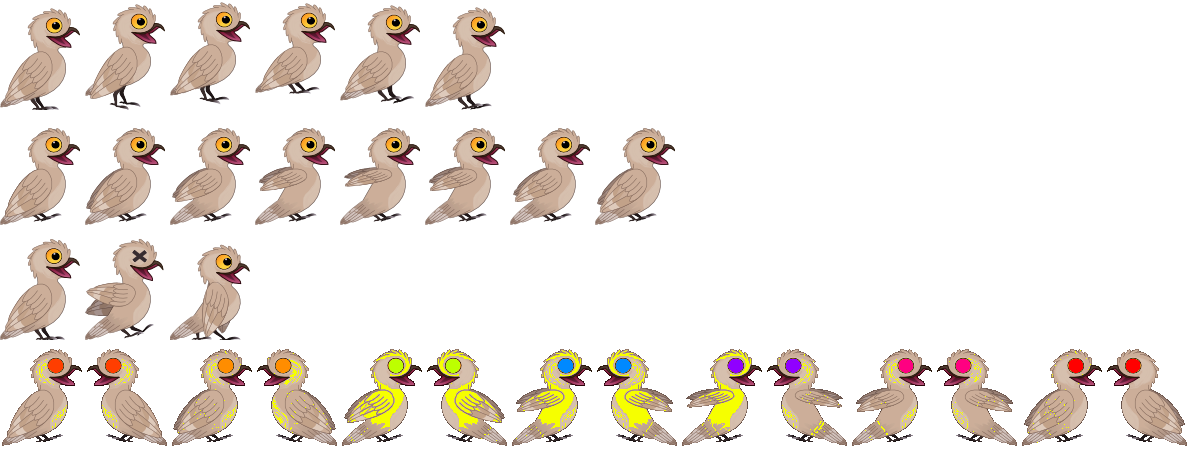
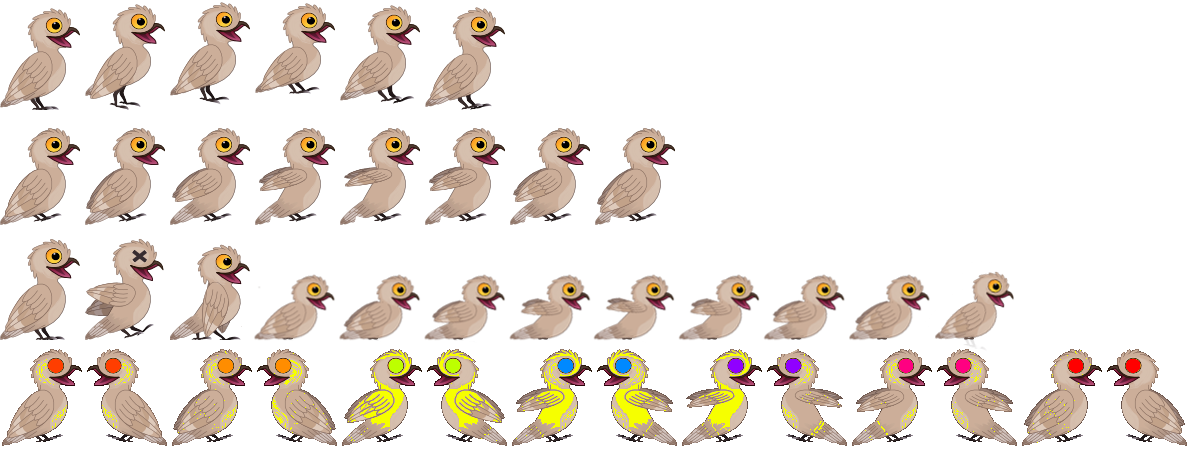
Animation crouch + crouch sur fleche du bas

Changed region(s): [[0.2176, 0.5911, 0.8706, 0.7778]]

diff --git a/SPW/Player.cpp b/SPW/Player.cpp
@@ -44,6 +44,23 @@ Player::Player(Scene &scene) :
     invincibleAnim->SetCycleCount(-1);
     invincibleAnim->SetCycleTime(0.2f);
 
+    // Animation "Crouching idle"
+    part = atlas->GetPart("Crouch_Idle");
+    AssertNew(part);
+    RE_TexAnim *chouchIdleAnim = new RE_TexAnim(
+            m_animator, "Crouch_Idle", part
+    );
+    chouchIdleAnim->SetCycleCount(0);
+
+    // Animation "Crouching running"
+    part = atlas->GetPart("Crouch_Running");
+    AssertNew(part);
+    RE_TexAnim *chouchRunningAnim = new RE_TexAnim(
+            m_animator, "Crouch_Running", part
+    );
+    chouchRunningAnim->SetCycleCount(-1);
+    chouchRunningAnim->SetCycleTime(0.15f);
+
     // Animation "Diving"
     part = atlas->GetPart("DiveLoading");
     AssertNew(part);
@@ -128,7 +145,7 @@ void Player::Update()
     if (controls.goDownDown && (m_state == State::FALLING)) m_dive = true;
 
     // Crouching
-    if(controls.crouchDown && (m_state == State::IDLE or m_state == State::FALLING or m_state == State::WALKING or m_state == State::RUNNING)) m_crouching = true;
+    if(controls.crouchDown && m_onGround && (m_state == State::IDLE or m_state == State::FALLING or m_state == State::WALKING or m_state == State::RUNNING)) m_crouching = true;
     else if(controls.crouchReleased &&  m_crouching) m_crouching = false;
 }
 
@@ -149,11 +166,6 @@ void Player::Render()
 
     rect.h = 1.375f * scale;
     rect.w = 1.0f * scale;
-    if(m_crouching)
-    {
-        rect.h = 1.0f * scale;
-        rect.w = 1.0f * scale;
-    }
     camera->WorldToView(GetPosition(), rect.x, rect.y);
 
     double angle {0.0f};
@@ -312,7 +324,12 @@ void Player::FixedUpdate()
         } break;
 
         case State::IDLE:{
-            m_animator.PlayAnimation("Idle");
+            if (controls.crouchDown) m_animator.PlayAnimation("Crouch_Idle");
+            else m_animator.PlayAnimation("Idle");
+        }
+        case State::RUNNING:{
+            if (controls.crouchDown && !m_crouching) m_animator.PlayAnimation("Crouch_Running");
+            if (!controls.crouchDown && m_crouching) m_animator.PlayAnimation("Running");
         }
     }
 
@@ -324,12 +341,14 @@ void Player::FixedUpdate()
     // Additional
     if (m_onGround){
         if (m_state != State::IDLE && velocity.x == 0.0f) {
-            m_animator.PlayAnimation("Idle");
+            if (controls.crouchDown) m_animator.PlayAnimation("Crouch_Idle");
+            else m_animator.PlayAnimation("Idle");
             m_state = State::IDLE;
         }
-        else if (m_state != State::RUNNING && (velocity.x < -3 || velocity.x > 3))
+        else if (m_state != State::RUNNING && (velocity.x < -1 || velocity.x > 1))
         {
-            m_animator.PlayAnimation("Running");
+            if (controls.crouchDown) m_animator.PlayAnimation("Crouch_Running");
+            else m_animator.PlayAnimation("Running");
             m_state = State::RUNNING;
         }
         // Réinitialise le timer

diff --git a/SPW/ControlsInput.cpp b/SPW/ControlsInput.cpp
@@ -102,6 +102,7 @@ void ControlsInput::OnEventProcess(SDL_Event evt)
             break;
 
         case SDL_SCANCODE_DOWN:
+            crouchDown = true;
             // Descente d'une plateforme
             goDownDown = true;
             break;
@@ -120,10 +121,6 @@ void ControlsInput::OnEventProcess(SDL_Event evt)
 
         case SDL_SCANCODE_LALT:
             fillDown = true;
-            break;
-        
-        case SDL_SCANCODE_LSHIFT:
-            crouchDown = true;
             break;
 
         default:
@@ -151,6 +148,8 @@ void ControlsInput::OnEventProcess(SDL_Event evt)
             break;
 
         case SDL_SCANCODE_DOWN:
+            crouchDown = false;
+            crouchReleased = true;
             // Descente d'une plateforme
             goDownDown = false;
             break;
@@ -172,12 +171,6 @@ void ControlsInput::OnEventProcess(SDL_Event evt)
         case SDL_SCANCODE_LALT:
             fillDown = false;
             break;
-
-        case SDL_SCANCODE_LSHIFT:
-            crouchDown = false;
-            crouchReleased = true;
-            break;
-
         default:
             break;
         }
